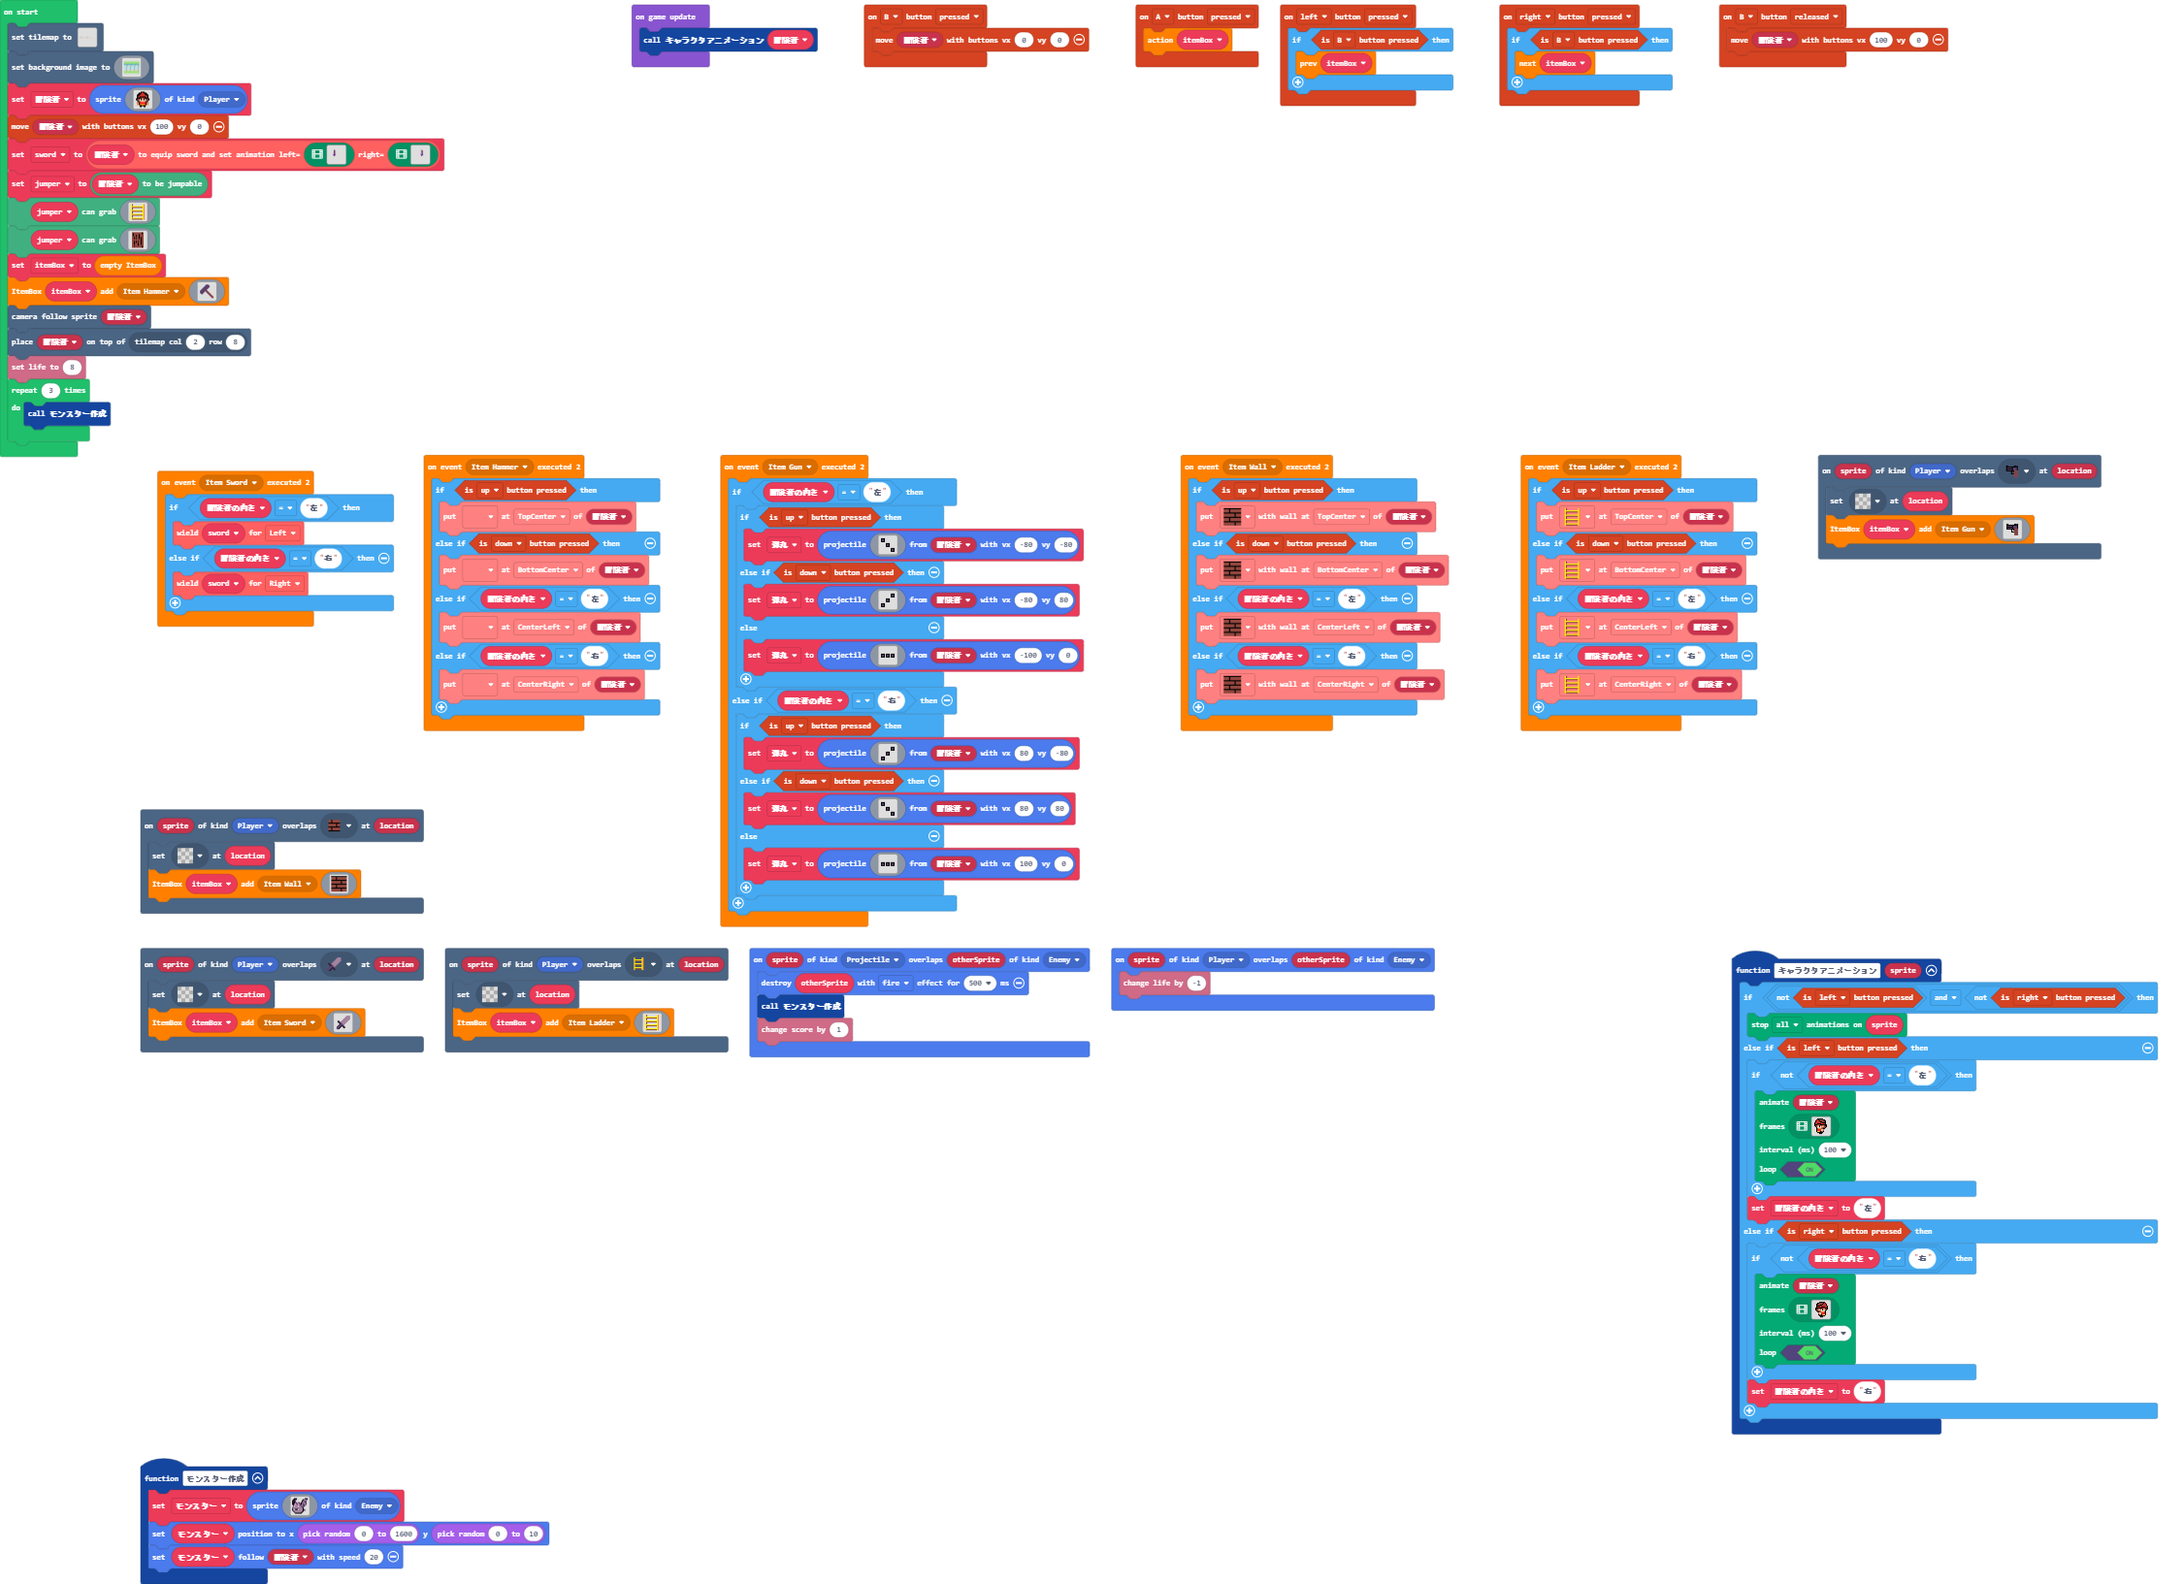
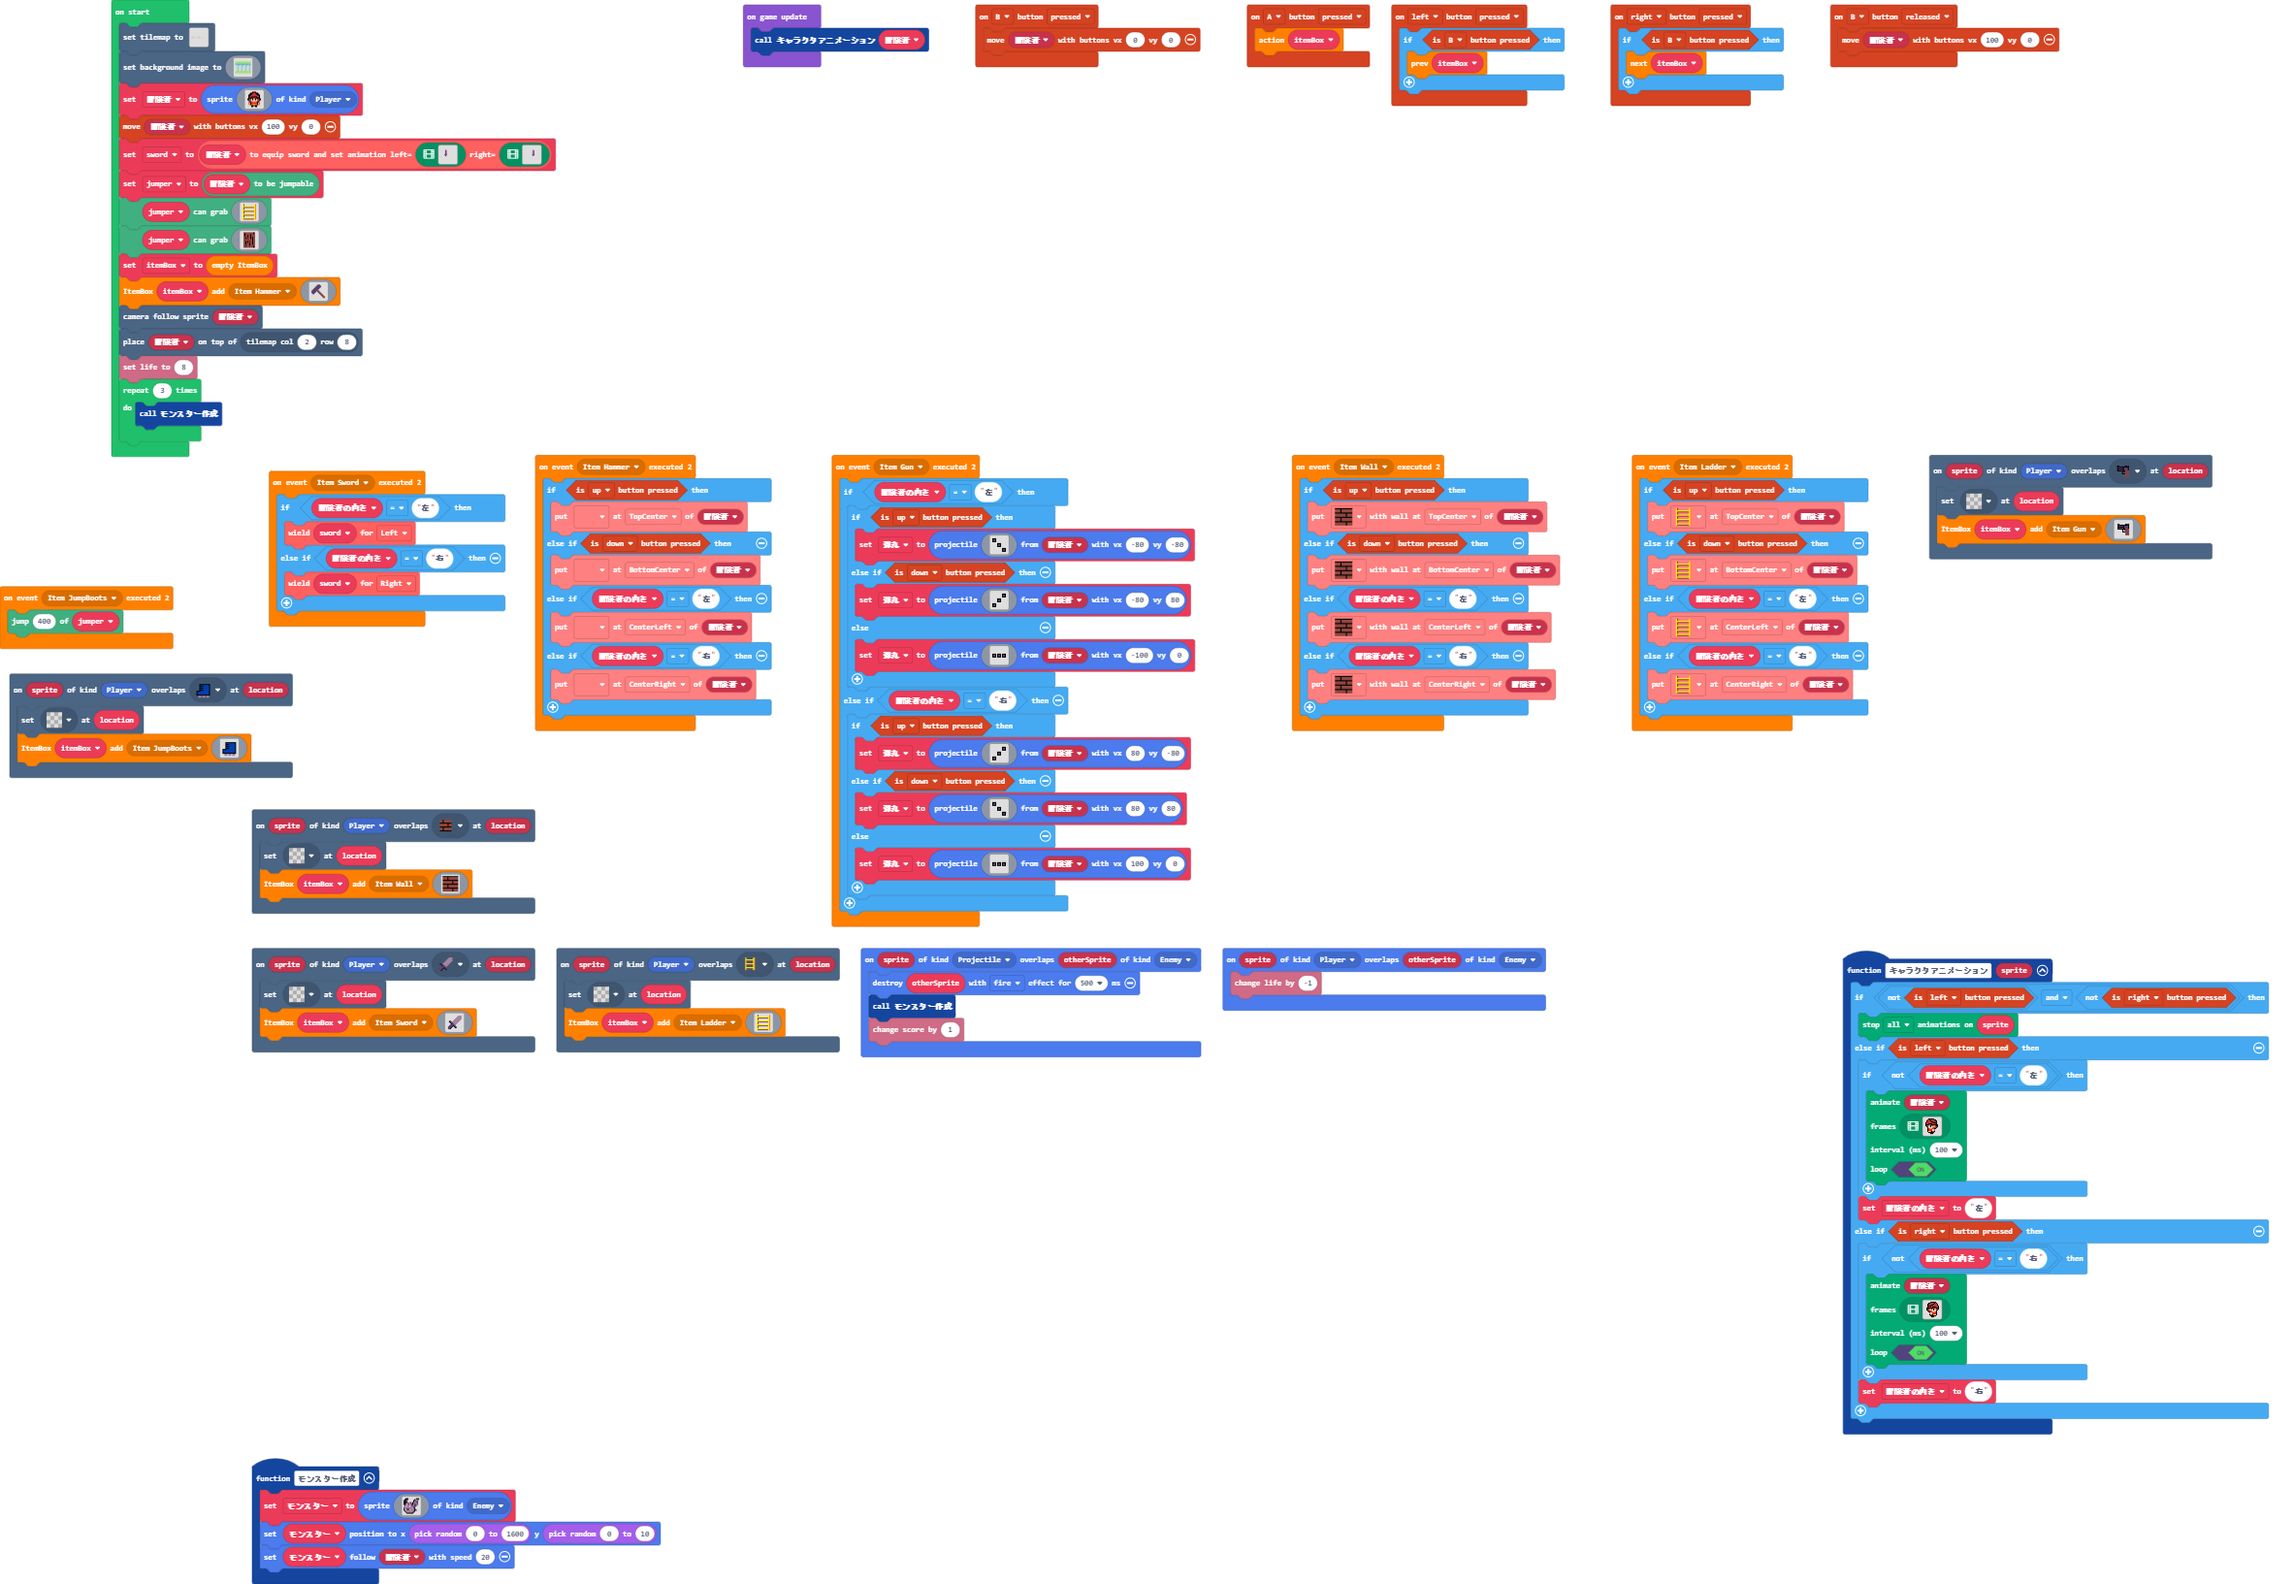
Update pxt.json, main.blocks, main.ts, tilemap.g.jres, tilemap.g.ts, jumpable.ts

diff --git a/tilemap.g.ts b/tilemap.g.ts
@@ -18,6 +18,8 @@ namespace myTiles {
     export const tile7 = image.ofBuffer(hex``);
     //% fixedInstance jres blockIdentity=images._tile
     export const tile8 = image.ofBuffer(hex``);
+    //% fixedInstance jres blockIdentity=images._tile
+    export const tile9 = image.ofBuffer(hex``);
 
     helpers._registerFactory("tilemap", function(name: string) {
         switch(helpers.stringTrim(name)) {
@@ -230,8 +232,27 @@ namespace myTiles {
 . . . . . . . . . . . . . . . . 
 . . . . . . . . . . . . . . . . 
 `, [myTiles.transparency16], TileScale.Sixteen);
+            case "level13":
+            case "level13":return tiles.createTilemap(hex`1000100000000000000000000000000000000000000000000000000000000000000000000000000000000000000000000000000000000000000000000000000000000000000000000000000000000000000000000000000000000000000000000000000000000000000000000000000000000000000000000000000000000000000000000000000000000000000000000000000000000000000000000000000000000000000000000000000000000000000000000000000000000000000000000000000000000000000000000000000000000000000000000000000000000000000000000000000000000000000000000000000000000000000000000000000000000000`, img`
+. . . . . . . . . . . . . . . . 
+. . . . . . . . . . . . . . . . 
+. . . . . . . . . . . . . . . . 
+. . . . . . . . . . . . . . . . 
+. . . . . . . . . . . . . . . . 
+. . . . . . . . . . . . . . . . 
+. . . . . . . . . . . . . . . . 
+. . . . . . . . . . . . . . . . 
+. . . . . . . . . . . . . . . . 
+. . . . . . . . . . . . . . . . 
+. . . . . . . . . . . . . . . . 
+. . . . . . . . . . . . . . . . 
+. . . . . . . . . . . . . . . . 
+. . . . . . . . . . . . . . . . 
+. . . . . . . . . . . . . . . . 
+. . . . . . . . . . . . . . . . 
+`, [myTiles.transparency16], TileScale.Sixteen);
             case "level1":
[2 lines of base64/hex data omitted]
 ....................................................................................................
 ....................................................................................................
 ....................................................................................................
@@ -248,7 +269,7 @@ namespace myTiles {
 2222222222222222222222222222222222222222222222222222222222222222222222222222222222222222222222222222
 2222222222222222222222222222222222222222222222222222222222222222222222222222222222222222222222222222
 2222222222222222222222222222222222222222222222222222222222222222222222222222222222222222222222222222
-`, [myTiles.transparency16,sprites.castle.tilePath5,sprites.castle.tilePath2,sprites.castle.tilePath1,sprites.castle.tilePath3,sprites.castle.tilePath6,sprites.castle.tilePath8,sprites.castle.tilePath9,myTiles.tile2,myTiles.tile1,myTiles.tile3,sprites.builtin.forestTiles0,myTiles.tile4,myTiles.tile6,myTiles.tile7,myTiles.tile8], TileScale.Sixteen);
+`, [myTiles.transparency16,sprites.castle.tilePath5,sprites.castle.tilePath2,sprites.castle.tilePath1,sprites.castle.tilePath3,sprites.castle.tilePath6,sprites.castle.tilePath8,sprites.castle.tilePath9,myTiles.tile2,myTiles.tile1,myTiles.tile3,sprites.builtin.forestTiles0,myTiles.tile4,myTiles.tile6,myTiles.tile7,myTiles.tile8,myTiles.tile9], TileScale.Sixteen);
         }
         return null;
     })
@@ -272,6 +293,8 @@ namespace myTiles {
             case "tile7":return tile7;
             case "brick":
             case "tile8":return tile8;
+            case "jump_boots":
+            case "tile9":return tile9;
         }
         return null;
     })

diff --git a/main.ts b/main.ts
@@ -3,7 +3,8 @@ enum ItemKind {
     Wall,
     Ladder,
     Gun,
-    Sword
+    Sword,
+    JumpBoots
 }
 namespace SpriteKind {
     export const Items = SpriteKind.create()
@@ -39,6 +40,10 @@ scene.onOverlapTile(SpriteKind.Player, assets.tile`brick`, function (sprite, loc
 })
 controller.A.onEvent(ControllerButtonEvent.Pressed, function () {
     itemBox.action()
+})
+scene.onOverlapTile(SpriteKind.Player, assets.tile`jump_boots`, function (sprite, location) {
+    tiles.setTileAt(location, assets.tile`transparency16`)
+    itemBox.add(ItemKind.JumpBoots, assets.tile`jump_boots`)
 })
 controller.left.onEvent(ControllerButtonEvent.Pressed, function () {
     if (controller.B.isPressed()) {
@@ -97,6 +102,9 @@ scene.onOverlapTile(SpriteKind.Player, assets.tile`ladder`, function (sprite, lo
 })
 controller.B.onEvent(ControllerButtonEvent.Released, function () {
     controller.moveSprite(冒険者, 100, 0)
+})
+itembox.util.onEvent(ItemKind.JumpBoots, function () {
+    jumper.setSpeed(400)
 })
 itembox.util.onEvent(ItemKind.Wall, function () {
     if (controller.up.isPressed()) {
@@ -297,6 +305,7 @@ let 弾丸: Sprite = null
 let 冒険者の向き = ""
 let モンスター: Sprite = null
 let itemBox: itembox.items.ItemBox = null
+let jumper: jumpable.Jumpable = null
 let sword: weapons.sword.Sword = null
 let 冒険者: Sprite = null
 tiles.setTilemap(tilemap`level1`)
@@ -442,7 +451,7 @@ scene.setBackgroundImage(img`
     `, SpriteKind.Player)
 controller.moveSprite(冒険者, 100, 0)
 sword = weapons.sword.equipSword(冒険者, assets.animation`sword_left_anim`, assets.animation`sword_right_anim`)
-let jumper = jumpable.setToBeJumpable(冒険者)
+jumper = jumpable.setToBeJumpable(冒険者)
 jumper.canGrabTile(assets.tile`ハシゴタイル`)
 jumper.canGrabTile(assets.tile`tree1`)
 itemBox = itembox.util.createEmptyItemBox()

diff --git a/jumpable.ts b/jumpable.ts
@@ -5,16 +5,24 @@ namespace jumpable {
 
         _target: Sprite;
         _grabbableTiles: Image[];
+        _speed: number;
 
         constructor(target: Sprite) {
             this._target = target;
             this._grabbableTiles = [];
+            this._speed = 200;
         }
 
         //% block="$this(jumper) can grab $tile"
         //% tile.shadow="screen_image_picker"
         canGrabTile(tile: Image) {
             this._grabbableTiles.push(tile);
+        }
+
+
+        //% block="jump $speed of $this(jumper)"
+        setSpeed(speed: number) {
+            this._speed = Math.abs(speed);
         }
 
         _isOnTile() : boolean {
@@ -41,14 +49,14 @@ namespace jumpable {
             
             let canJump = this._target.isHittingTile(CollisionDirection.Bottom);
             if (canJump && controller.up.isPressed()) {
-                return -200
+                return this._speed * -1;
             }
             
             if (!(controller.up.isPressed())) {
-                return 200
+                return this._speed;
             }
 
-            return Math.min(this._target.vy + 8, 200)
+            return Math.min(this._target.vy + 8, this._speed)
         }
 
         _run() {
